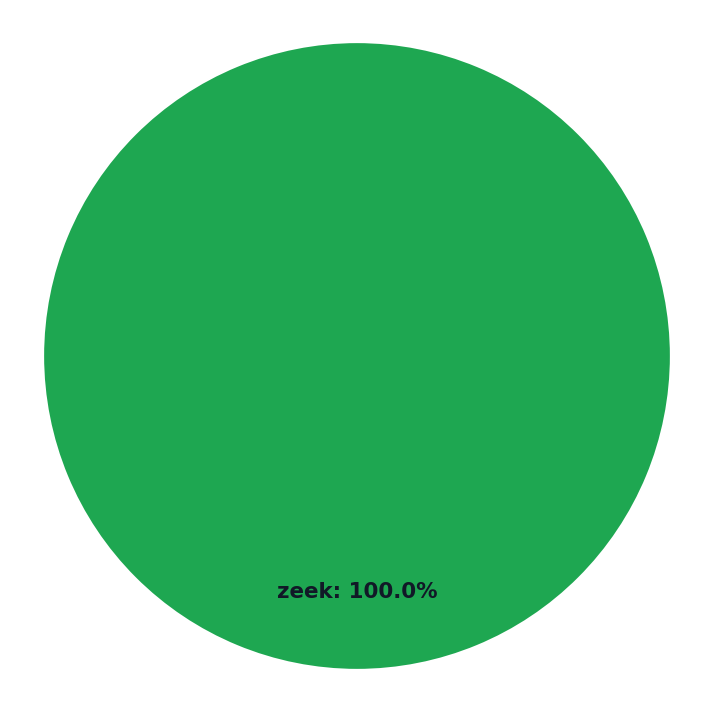
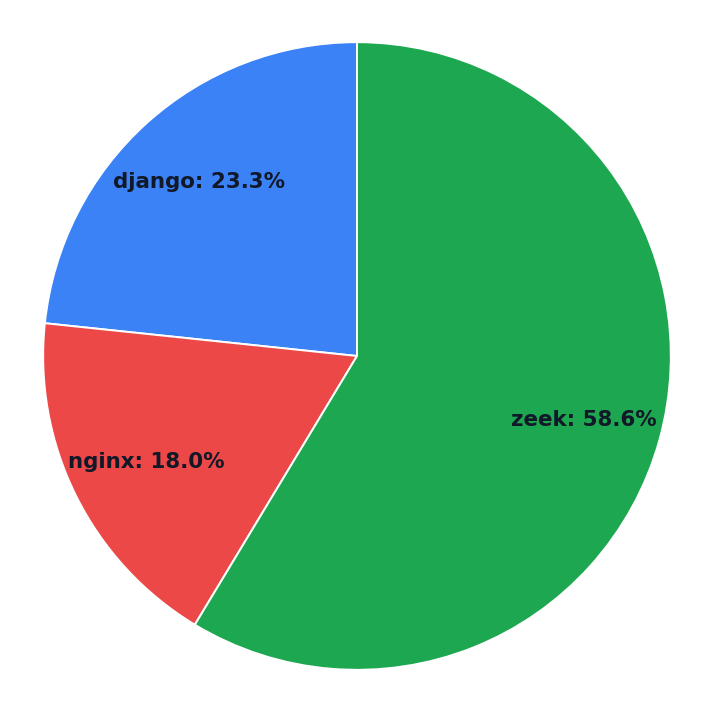
optimize ram for code

diff --git a/detectors/brute_detector.py b/detectors/brute_detector.py
@@ -10,6 +10,7 @@ load_dotenv()
 
 THRESHOLD = int(os.getenv("NGINX_BRUTE_THRESHOLD", 50))
 EXPIRE = int(os.getenv("NGINX_BRUTE_EXPIRE", 30))
+MAX_BRUTE_IPS = int(os.getenv("MAX_BRUTE_IPS", 5000))
 
 # Mỗi IP có 1 deque để giữ timestamps của request gần nhất trong EXPIRE giây
 REQUESTS = defaultdict(lambda: deque())
@@ -18,6 +19,7 @@ TARGET_URLS = {
     "/admin/login/",
     "/api/customers/login/",
 }
+
 
 def convert_time_local_to_vn(time_local: str) -> str:
     dt = datetime.strptime(time_local, "%d/%b/%Y:%H:%M:%S %z")
@@ -35,9 +37,8 @@ async def realtime_bruteforce_detector(streamer):
             url = log.get("url")
             user_agent = log.get("user_agent")
             time_local = log.get("time_local")
-            vn_time = convert_time_local_to_vn(time_local)
 
-            if not ip or not method or not url or not user_agent:
+            if not ip or not method or not url or not user_agent or not time_local:
                 continue
 
             # Chỉ POST request
@@ -48,6 +49,7 @@ async def realtime_bruteforce_detector(streamer):
             if url not in TARGET_URLS:
                 continue
 
+            vn_time = convert_time_local_to_vn(time_local)
             now = loop.time()
             dq = REQUESTS[ip]
 
@@ -61,20 +63,28 @@ async def realtime_bruteforce_detector(streamer):
             count = len(dq)
 
             # Nếu vượt threshold thì cảnh báo
-            if count >= THRESHOLD:
-                if can_alert(ip):
-                    msg = (
-                        f"[Brute-Force ALERT] {vn_time}\n"
-                        f" - IP: {ip}\n"
-                        f" - URL: {url}\n"
-                        f" - User-Agent: {user_agent}\n"
-                        f" - Đã vượt ngưỡng brute-force với {count} requests trong {EXPIRE} giây."
-                    )
-                    await alert_queue.put({"content": msg, "threat_type": "bruteforce"})
+            if count >= THRESHOLD and can_alert(ip):
+                msg = (
+                    f"[Brute-Force ALERT] {vn_time}\n"
+                    f" - IP: {ip}\n"
+                    f" - URL: {url}\n"
+                    f" - User-Agent: {user_agent}\n"
+                    f" - Đã vượt ngưỡng brute-force với {count} requests trong {EXPIRE} giây."
+                )
+                await alert_queue.put({"content": msg, "threat_type": "bruteforce"})
 
+        # Cleanup để tránh phình RAM:
         now = loop.time()
-        expired_ips = [ip for ip, dq in REQUESTS.items() if dq and now - dq[-1] > EXPIRE]
+        # Xoá cả IP có deque rỗng hoặc đã quá hạn
+        expired_ips = [
+            ip for ip, dq in REQUESTS.items()
+            if not dq or (now - dq[-1] > EXPIRE)
+        ]
         for ip in expired_ips:
             REQUESTS.pop(ip, None)
+
+        # Nếu vẫn có quá nhiều IP (tấn công IP random), reset hết
+        if len(REQUESTS) > MAX_BRUTE_IPS:
+            REQUESTS.clear()
 
         await asyncio.sleep(0.05)

diff --git a/detectors/ddos_detector.py b/detectors/ddos_detector.py
@@ -14,6 +14,7 @@ LAST = defaultdict(float)
 
 THRESHOLD = int(os.getenv("THRESHOLD_REQUESTS", 500))
 EXPIRE = int(os.getenv("SECONDS_WINDOW", 10))
+MAX_DDOS_IPS = int(os.getenv("MAX_DDOS_IPS", 50000))
 
 
 def convert_to_vietnam_time(ts: str):
@@ -44,7 +45,7 @@ async def realtime_ddos_detector(streamer):
 
             now = loop.time()
 
-            # Nếu đã quá EXPIRE giây thì reset counter
+            # Nếu đã quá EXPIRE giây thì reset counter của IP
             if now - LAST[ip] > EXPIRE:
                 COUNTS[ip] = 0
 
@@ -52,14 +53,13 @@ async def realtime_ddos_detector(streamer):
             LAST[ip] = now
 
             # Nếu vượt ngưỡng → gửi cảnh báo
-            if COUNTS[ip] >= THRESHOLD:
-                if can_alert(ip):
-                    msg = (
-                        f"[ALERT DDoS Scanner] Ngày {vn_time}\n"
-                        f" - IP: {ip} \n"
-                        f" - Ngưỡng {THRESHOLD} requests trong {EXPIRE} giây đã bị vượt qua."
-                    )
-                    await alert_queue.put({"content": msg, "threat_type": "ddos"})
+            if COUNTS[ip] >= THRESHOLD and can_alert(ip):
+                msg = (
+                    f"[ALERT DDoS Scanner] Ngày {vn_time}\n"
+                    f" - IP: {ip} \n"
+                    f" - Ngưỡng {THRESHOLD} requests trong {EXPIRE} giây đã bị vượt qua."
+                )
+                await alert_queue.put({"content": msg, "threat_type": "ddos"})
 
         # Cleanup để không leak RAM
         now = loop.time()
@@ -67,5 +67,10 @@ async def realtime_ddos_detector(streamer):
         for ip in expired:
             LAST.pop(ip, None)
             COUNTS.pop(ip, None)
+
+        # Nếu số IP đang theo dõi quá lớn (DDoS IP random), reset cứng
+        if len(LAST) > MAX_DDOS_IPS:
+            LAST.clear()
+            COUNTS.clear()
 
         await asyncio.sleep(0.05)

diff --git a/service/base_streamer.py b/service/base_streamer.py
@@ -1,6 +1,7 @@
 import asyncio
 from config.elastic import es_async_client
 
+
 class BaseStreamer:
     def __init__(self, index_pattern: str):
         self.es = es_async_client
@@ -23,10 +24,12 @@ class BaseStreamer:
                         {"log.offset": "desc"}
                     ],
                     "query": {"match_all": {}}
-                }
+                },
+                # Chỉ lấy phần cần thiết để tránh tạo object dư
+                filter_path=["hits.hits._source", "hits.hits.sort"],
             )
 
-            hits = res["hits"]["hits"]
+            hits = res.get("hits", {}).get("hits", [])
             if hits:
                 self.search_after = hits[0]["sort"]
                 print(f"[FAST-FORWARD] {self.index_pattern} bắt đầu từ log mới nhất")
@@ -60,16 +63,22 @@ class BaseStreamer:
             res = await self.es.search(
                 index=self.index_pattern,
                 body=query,
-                request_timeout=20
+                request_timeout=20,
+                # chỉ lấy _source + sort để giảm kích thước response
+                filter_path=["hits.hits._source", "hits.hits.sort"],
             )
 
-            hits = res["hits"]["hits"]
+            hits = res.get("hits", {}).get("hits", [])
 
             if hits:
                 for h in hits:
-                    yield h["_source"]
+                    src = h.get("_source")
+                    if src is not None:
+                        yield src
 
                 self.search_after = hits[-1]["sort"]
 
+                # Nhả CPU một chút, tránh loop quá sát khi log về liên tục
+                await asyncio.sleep(0.01)
             else:
                 await asyncio.sleep(0.2)

diff --git a/alert/anti_spam.py b/alert/anti_spam.py
@@ -6,15 +6,42 @@ load_dotenv()
 
 LAST_ALERT = {}
 ALERT_COOLDOWN = int(os.getenv("ALERT_COOLDOWN", 30))
+MAX_ALERT_IPS = int(os.getenv("MAX_ALERT_IPS", 5000))
+
+
+def _prune_alert_cache(now: float) -> None:
+    """
+    Dọn bớt IP cũ khi bảng LAST_ALERT quá lớn để tránh phình RAM.
+    Chiến lược:
+      - Xoá các IP đã quá cooldown * 3
+      - Nếu vẫn quá to thì clear toàn bộ.
+    """
+    if len(LAST_ALERT) <= MAX_ALERT_IPS:
+        return
+
+    cutoff = now - ALERT_COOLDOWN * 3
+    stale_ips = [ip for ip, ts in LAST_ALERT.items() if ts < cutoff]
+
+    for ip in stale_ips:
+        LAST_ALERT.pop(ip, None)
+
+    # Nếu vẫn quá lớn (trường hợp DDoS IP random), reset hẳn
+    if len(LAST_ALERT) > MAX_ALERT_IPS:
+        LAST_ALERT.clear()
+
 
 def can_alert(ip: str) -> bool:
     now = time.time()
 
-    if ip not in LAST_ALERT:
+    # Dọn cache nếu cần
+    _prune_alert_cache(now)
+
+    last = LAST_ALERT.get(ip)
+    if last is None:
         LAST_ALERT[ip] = now
         return True
 
-    if now - LAST_ALERT[ip] >= ALERT_COOLDOWN:
+    if now - last >= ALERT_COOLDOWN:
         LAST_ALERT[ip] = now
         return True
 

diff --git a/chart/export_chart.py b/chart/export_chart.py
@@ -51,7 +51,8 @@ def create_pie_chart(counts, percentages):
 
     chart_path = os.path.join(IMAGE_DIR, "chart.png")
     plt.savefig(chart_path, dpi=140, bbox_inches="tight")
-    plt.close()
+    plt.clf()
+    plt.close('all')
 
     return chart_path
 
